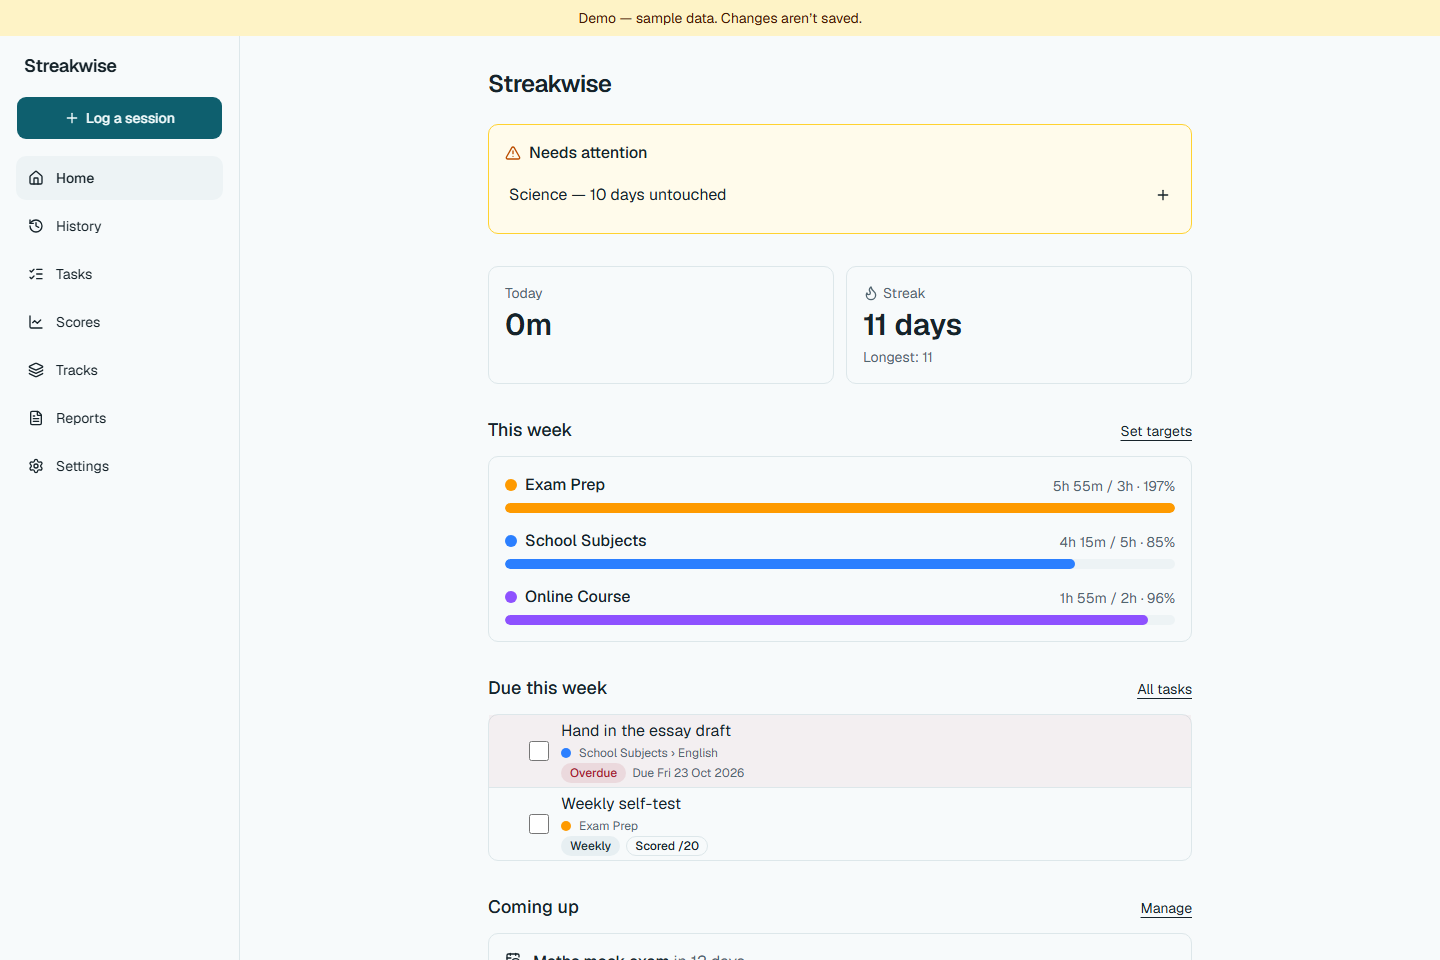
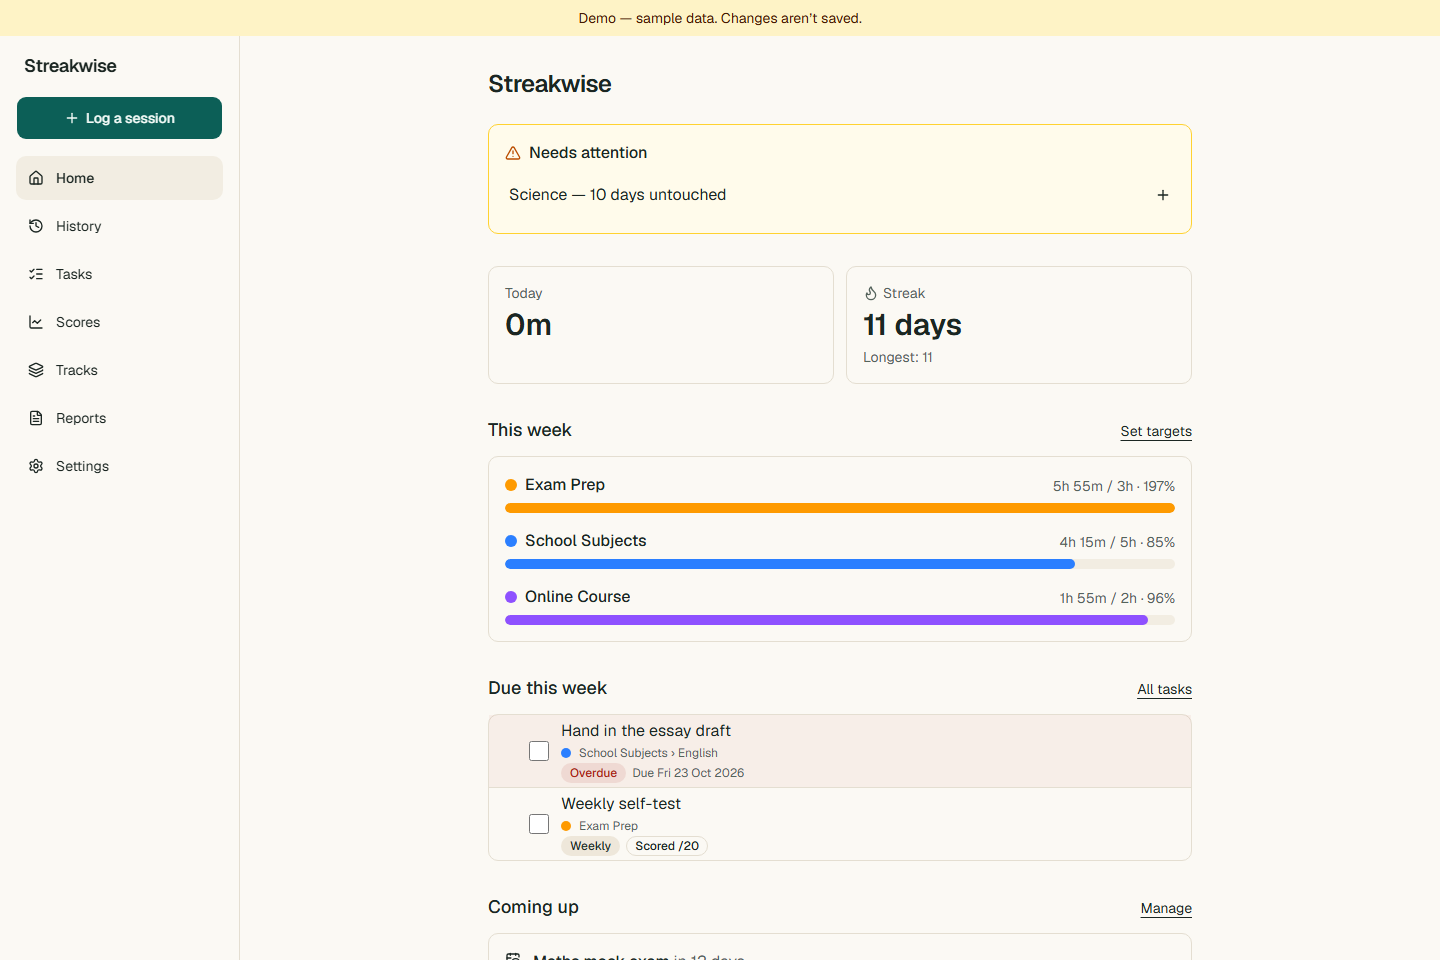
chore: restore the warm palette the owner preferred (#34)

diff --git a/src/index.css b/src/index.css
@@ -60,40 +60,40 @@
   --series-6: #008300;
   --series-7: #4a3aa7;
   --series-8: #e34948;
-  /* The Streakwise palette: cool paper and slate neutrals, deep teal-cyan for actions, pale ice
-     blue as the highlight. Every pair below meets WCAG AA (4.5:1) in both themes. */
-  --background: #f7fafb;
-  --foreground: #16232a;
+  /* The Streakwise palette: warm paper and sand neutrals, deep teal for actions, pale mint as
+     the highlight. Every pair below meets WCAG AA (4.5:1) in both themes. */
+  --background: #fbf9f4;
+  --foreground: #1b2622;
   --card: #ffffff;
-  --card-foreground: #16232a;
+  --card-foreground: #1b2622;
   --popover: #ffffff;
-  --popover-foreground: #16232a;
-  --primary: #0e5f6e;
-  --primary-foreground: #f2fbfc;
-  --secondary: #e7eff2;
-  --secondary-foreground: #1f2f36;
-  --muted: #edf3f5;
-  --muted-foreground: #526570;
-  --accent: #dbedf1;
-  --accent-foreground: #0b404b;
-  --destructive: #a82232;
-  --border: #dde7ea;
-  --input: #d1dde1;
-  --ring: #0e5f6e;
+  --popover-foreground: #1b2622;
+  --primary: #0c5f57;
+  --primary-foreground: #f4fbf8;
+  --secondary: #eee7da;
+  --secondary-foreground: #27332d;
+  --muted: #f2ede2;
+  --muted-foreground: #55635c;
+  --accent: #ddefe9;
+  --accent-foreground: #0d453f;
+  --destructive: #ac2419;
+  --border: #e4ded1;
+  --input: #d9d2c3;
+  --ring: #0c5f57;
   --chart-1: oklch(0.87 0 0);
   --chart-2: oklch(0.556 0 0);
   --chart-3: oklch(0.439 0 0);
   --chart-4: oklch(0.371 0 0);
   --chart-5: oklch(0.269 0 0);
   --radius: 0.625rem;
-  --sidebar: #f2f7f9;
-  --sidebar-foreground: #16232a;
-  --sidebar-primary: #0e5f6e;
-  --sidebar-primary-foreground: #f2fbfc;
-  --sidebar-accent: #e2eef2;
-  --sidebar-accent-foreground: #0b404b;
-  --sidebar-border: #dde7ea;
-  --sidebar-ring: #0e5f6e;
+  --sidebar: #f6f2e8;
+  --sidebar-foreground: #1b2622;
+  --sidebar-primary: #0c5f57;
+  --sidebar-primary-foreground: #f4fbf8;
+  --sidebar-accent: #e4efe9;
+  --sidebar-accent-foreground: #0d453f;
+  --sidebar-border: #e4ded1;
+  --sidebar-ring: #0c5f57;
 }
 
 @media (prefers-color-scheme: dark) {
@@ -106,37 +106,37 @@
     --series-6: #008300;
     --series-7: #9085e9;
     --series-8: #e66767;
-    --background: #10181b;
-    --foreground: #e9f1f4;
-    --card: #172125;
-    --card-foreground: #e9f1f4;
-    --popover: #172125;
-    --popover-foreground: #e9f1f4;
-    --primary: #6fd2d9;
-    --primary-foreground: #062124;
-    --secondary: #223034;
-    --secondary-foreground: #e9f1f4;
-    --muted: #223034;
-    --muted-foreground: #a7bbc2;
-    --accent: #1f353b;
-    --accent-foreground: #d2f0f4;
-    --destructive: #ff8e9b;
+    --background: #111815;
+    --foreground: #eaf1ed;
+    --card: #18201d;
+    --card-foreground: #eaf1ed;
+    --popover: #18201d;
+    --popover-foreground: #eaf1ed;
+    --primary: #6fd3bd;
+    --primary-foreground: #08201c;
+    --secondary: #232e29;
+    --secondary-foreground: #eaf1ed;
+    --muted: #232e29;
+    --muted-foreground: #a9b9b1;
+    --accent: #22332d;
+    --accent-foreground: #d6f2e9;
+    --destructive: #ff8f86;
     --border: oklch(1 0 0 / 12%);
     --input: oklch(1 0 0 / 18%);
-    --ring: #6fd2d9;
+    --ring: #6fd3bd;
     --chart-1: oklch(0.87 0 0);
     --chart-2: oklch(0.556 0 0);
     --chart-3: oklch(0.439 0 0);
     --chart-4: oklch(0.371 0 0);
     --chart-5: oklch(0.269 0 0);
-    --sidebar: #131d21;
-    --sidebar-foreground: #e9f1f4;
-    --sidebar-primary: #6fd2d9;
-    --sidebar-primary-foreground: #062124;
-    --sidebar-accent: #1f353b;
-    --sidebar-accent-foreground: #d2f0f4;
+    --sidebar: #141c19;
+    --sidebar-foreground: #eaf1ed;
+    --sidebar-primary: #6fd3bd;
+    --sidebar-primary-foreground: #08201c;
+    --sidebar-accent: #22332d;
+    --sidebar-accent-foreground: #d6f2e9;
     --sidebar-border: oklch(1 0 0 / 12%);
-    --sidebar-ring: #6fd2d9;
+    --sidebar-ring: #6fd3bd;
   }
 }
 

diff --git a/docs/PROGRESS.md b/docs/PROGRESS.md
@@ -1,24 +1,23 @@
 # Progress
 
-_Last updated: 2026-10-25 by Claude (M8 merged as #32 and the palette cooled in #33: WCAG AA on every
-screen, cool paper/slate with teal-cyan, track management, screenshots and README; next: the owner
-looks at it and decides on R4)_
+_Last updated: 2026-10-25 by Claude (M8 merged as #32; the palette is back to the warm paper/sand
+version after the owner compared it with a cooler one in #33/#34; next: the owner decides on R4)_
 
 ## Milestones
 
-| #             | Status    | PR       | Notes / deferred items                                                                                                                                                                                                                        |
-| ------------- | --------- | -------- | --------------------------------------------------------------------------------------------------------------------------------------------------------------------------------------------------------------------------------------------- |
-| M0 Scaffold   | ✅ done   | #1       |                                                                                                                                                                                                                                               |
-| M1 Foundation | ✅ done   | #7       | Repository covers nodes, settings, seed so far; later milestones add their own methods                                                                                                                                                        |
-| M2 Logging    | ✅ done   | #8       | All MUST + SHOULD done. Deferred: TREE-7 (COULD: drag-and-drop, move to another parent)                                                                                                                                                       |
-| M3 Dashboard  | ✅ done   | #9       | All MUST + SHOULD done. Deferred: NEG-2 (COULD: mute warnings; needs a migration), HEAT-4 (COULD: heatmap per track)                                                                                                                          |
-| M4 MCP        | 🔍 review | #11      | All MUST + SHOULD built (MCP-1–9 M4 tools, SET-4). CI green; checked live on the preview with curl and MCP Inspector                                                                                                                          |
-| M5 Progress   | ✅ done   | #16      | All MUST + SHOULD built. Deferred: TASK-10 (COULD: complete a weekly task for last week)                                                                                                                                                      |
-| M5A Accounts  | ✅ done   | #20      | Merged into `develop` 2026-10-09. Not live yet: R3 is held by the owner                                                                                                                                                                       |
-| M6 Reports    | ✅ done   | #21      | All MUST + SHOULD + COULD (REP-3, SHARE-6) built. No migration. Merged into `develop` 2026-10-09 (owner's OK)                                                                                                                                 |
-| M7 Demo + PWA | ✅ done   | #26      | DEMO-1–5, PWA-1–3 (incl. COULD PWA-3), e2e suite in CI. No migration. Merged into `develop` 2026-10-10 (owner's OK); live in R3a (2026-10-10)                                                                                                 |
-| Cleanup       | ✅ done   | #27      | Migration `0004` (applied 2026-10-10), old-passcode claim removed (D19). Merged into `develop` 2026-10-10                                                                                                                                     |
-| M8 Polish     | ✅ done   | #32, #33 | WCAG AA checks on all 8 screens × 2 themes, final palette, "Manage track", screenshots, README, architecture.md. Merged into `develop` 2026-10-25 (squash `c324a0b`); the owner then asked for a cooler palette (PR #33); R4 is the next step |
+| #             | Status    | PR            | Notes / deferred items                                                                                                                                                                                                                 |
+| ------------- | --------- | ------------- | -------------------------------------------------------------------------------------------------------------------------------------------------------------------------------------------------------------------------------------- |
+| M0 Scaffold   | ✅ done   | #1            |                                                                                                                                                                                                                                        |
+| M1 Foundation | ✅ done   | #7            | Repository covers nodes, settings, seed so far; later milestones add their own methods                                                                                                                                                 |
+| M2 Logging    | ✅ done   | #8            | All MUST + SHOULD done. Deferred: TREE-7 (COULD: drag-and-drop, move to another parent)                                                                                                                                                |
+| M3 Dashboard  | ✅ done   | #9            | All MUST + SHOULD done. Deferred: NEG-2 (COULD: mute warnings; needs a migration), HEAT-4 (COULD: heatmap per track)                                                                                                                   |
+| M4 MCP        | 🔍 review | #11           | All MUST + SHOULD built (MCP-1–9 M4 tools, SET-4). CI green; checked live on the preview with curl and MCP Inspector                                                                                                                   |
+| M5 Progress   | ✅ done   | #16           | All MUST + SHOULD built. Deferred: TASK-10 (COULD: complete a weekly task for last week)                                                                                                                                               |
+| M5A Accounts  | ✅ done   | #20           | Merged into `develop` 2026-10-09. Not live yet: R3 is held by the owner                                                                                                                                                                |
+| M6 Reports    | ✅ done   | #21           | All MUST + SHOULD + COULD (REP-3, SHARE-6) built. No migration. Merged into `develop` 2026-10-09 (owner's OK)                                                                                                                          |
+| M7 Demo + PWA | ✅ done   | #26           | DEMO-1–5, PWA-1–3 (incl. COULD PWA-3), e2e suite in CI. No migration. Merged into `develop` 2026-10-10 (owner's OK); live in R3a (2026-10-10)                                                                                          |
+| Cleanup       | ✅ done   | #27           | Migration `0004` (applied 2026-10-10), old-passcode claim removed (D19). Merged into `develop` 2026-10-10                                                                                                                              |
+| M8 Polish     | ✅ done   | #32, #33, #34 | WCAG AA checks on all 8 screens × 2 themes, final palette (warm paper, kept after a cooler comparison), "Manage track", screenshots, README, architecture.md. Merged into `develop` 2026-10-25 (squash `c324a0b`); R4 is the next step |
 
 ## Releases to production (budget: max 8 per month, ~15 of 300 credits each)
 
@@ -170,8 +169,8 @@ attempt.
 **Next steps (in order):**
 
 1. Done: M8 (#32) merged into `develop` 2026-10-25; CI and e2e green; the `develop` deploy carries it.
-2. Owner: look at the new colours and the "Manage track" button; say if the palette should be
-   warmer/cooler before it goes into v1.0.0.
+2. Palette settled: the owner compared the warm and cool versions and kept the **warm** one
+   (2026-10-25). No further colour work unless asked.
 3. Owner: finish the remaining preview-checklist items (sign-up + confirmation with a `+test`
    address, MCP link, share link).
 4. Owner: yes/no to R4. Then merge `develop` → `main`, deploy from `main`, tag `v1.0.0`, make a new
@@ -182,19 +181,17 @@ decision).
 
 - **Accessibility:** `e2e/a11y.spec.ts` runs axe-core with the WCAG 2.1 A/AA rules over all eight
   screens, in light and dark, on the phone and desktop projects (32 checks). Tinted "overdue" rows
-  failed at first: light `--muted-foreground` is now `#526570` and `--destructive` `#a82232`, which
-  clear 4.5:1 on cards, muted backgrounds, and the 5–10% destructive tints. The cooler teal also
-  pushed primary **hover** tints under 4.5:1 (the pointer rests on the Log link after navigation, so
-  axe saw it): primary buttons and badges now hover at `/90`, and the dark destructive hover is
-  `/25`.
-- **Palette (owner asked for a final colour scheme, then asked for it cooler):** cool paper and
-  slate neutrals, deep teal-cyan (`#0e5f6e`) for actions, pale ice blue for highlights, a cool brick
-  red for destructive actions; dark mode is the same roles on a near-black blue-green background
-  with aqua (`#6fd2d9`) as primary. Track and chart palettes are unchanged. Every text/background
-  pair measures 5.4:1–15.7:1.
-- **Cooler follow-up (PR #33):** the owner asked for the first palette to be cooler, so the tokens
-  moved from warm paper/mint to cool paper/slate with teal-cyan and ice blue; the hover tints were
-  fixed in the same PR (see the accessibility bullet), and the screenshots were regenerated.
+  failed at first: light `--muted-foreground` is now `#55635c` and `--destructive` `#ac2419`, which
+  clear 4.5:1 on cards, muted backgrounds, and the 5–10% destructive tints. Primary **hover** tints
+  were also raised to `/90` (5.7:1) and the dark destructive hover to `/25`, because the pointer
+  rests on the Log link after navigation and axe saw that state.
+- **Palette (owner asked for a final colour scheme):** warm paper and sand neutrals, deep teal
+  (`#0c5f57`) for actions, pale mint for highlights, brick red for destructive actions; dark mode is
+  the same roles on a near-black green background with mint (`#6fd3bd`) as primary. Track and chart
+  palettes are unchanged. Every text/background pair measures 5.4:1–15.7:1.
+- **Cooler palette tried and reverted (PR #33 → PR #34):** a cool paper/slate version with teal-cyan
+  was built, checked, screenshotted and merged, then the owner compared both and asked for the warm
+  one back. The hover-tint fix from that PR stayed, and the screenshots were regenerated again.
 - **Delete/manage a track (owner asked for it):** a "Manage track" button on a track's page opens the
   existing node dialog, so rename, recolour, add a child, archive, restore, and delete (TREE-1–3,
   TREE-5) work without going through Settings → Structure. A successful delete returns to Tracks;
@@ -471,8 +468,8 @@ With D15, `SUPABASE_URL` / `SUPABASE_SECRET_KEY` are the same in every Netlify c
 
 ## Open questions for the owner
 
-- Is the cooler palette right for v1.0.0? Cool paper, slate, teal-cyan, and ice blue — easy to
-  nudge warmer or cooler again before R4.
+- Is the warm palette right for v1.0.0? It came back after the cooler comparison — easy to nudge
+  before R4, but it is now the warm paper/sand/teal/mint version.
 - Say yes/no to R4 once the checklist passes (merge `develop` → `main`, then deploy production from
   `main`).
 - Should the Netlify entries stay in Supabase's URL configuration until R4, or be removed with the
@@ -480,11 +477,11 @@ With D15, `SUPABASE_URL` / `SUPABASE_SECRET_KEY` are the same in every Netlify c
 
 ## Decisions made during the build
 
-- M8: the final palette is cool paper and slate neutrals with deep teal-cyan for actions, pale ice
-  blue for highlights, and a cool brick red for destructive actions; dark mode swaps the same roles
-  on a near-black blue-green background (the owner asked for it cooler than the first version).
-  Track and score-chart colours stay separate (`--series-*`), so a theme change never re-colours
-  someone's data.
+- M8: the final palette is warm paper and sand neutrals with deep teal for actions, pale mint for
+  highlights, and a warm brick red for destructive actions; dark mode swaps the same roles on a
+  near-black green background. A cooler version was built and compared; the owner chose to keep the
+  warm one. Track and score-chart colours stay separate (`--series-*`), so a theme change never
+  re-colours someone's data.
 - M8: contrast is enforced by axe-core in the e2e suite (all 8 screens × light/dark × phone/desktop)
   rather than by eye or by unit tests, because it measures the real computed colours.
 - M8: a track is managed from its own page ("Manage track" → the existing `NodeDialog`), so the

diff --git a/docs/SPEC.md b/docs/SPEC.md
@@ -684,7 +684,7 @@ sharing, demo, polish) and can resume at any time from docs/PROGRESS.md.
 | D18 | **General sample tracks (owner's request, 2026-10-09):** the seed for new accounts and the demo use Exam Prep (Flashcards, Practice), School Subjects (Maths, English), and Online Course, with a scored "Weekly self-test". The owner's own track names appear nowhere in the code, docs, or tests. Existing accounts keep their data. | The app is public; the starter tracks should suit any student, multitasker, or high achiever, and not reveal the owner's studies |
 | D19 | **Single-user leftovers removed (2026-10-10, as planned in D17):** after the owner claimed the old data, migration `0004` makes `user_id` required on every data table and drops the old `settings` table, the old RPCs, and the claim functions. The code drops the old-passcode form, `/api/auth/passcode`, the `sw_claim` cookie, and `APP_PASSCODE`; `MCP_SECRET` was already unused since D17. | Nothing is left to claim; fewer moving parts and no secret that no longer does anything |
 | D20 | **Hosting moves from Netlify to Vercel's free Hobby plan (owner's decision, 2026-10-10).** R3a was the last Netlify release. Vercel charges nothing per deploy (about 100 deployments a day on Hobby, 1M function requests a month) and fits the app's non-commercial use; limits: runtime logs kept 1 hour, non-commercial personal use only. The server moves to one deployed function (`api/server.ts`) that dispatches `/api/*`, `/auth/*`, `/mcp/*`, `/.well-known/*` to the unchanged handlers. Releases still need the owner's OK (OPS-4); R4 (v1.0.0) is the first Vercel release. | No deployment budget; Netlify credits were nearly exhausted, and Vercel's free limits are far above this app's traffic |
-| D21 | **Final colours and track management (owner's requests, 2026-10-25).** The v1.0.0 theme is cool paper and slate neutrals, deep teal-cyan for actions, pale ice blue for highlights, and a cool brick red for destructive actions, with the same roles inverted in dark mode (the theme still follows the system setting); the owner asked for the first version to be cooler. Track and score-chart colours keep their own validated palette. A track's page has a **Manage track** button that opens the same node dialog as Settings → Structure, so rename, recolour, add a child, archive, restore, and delete live where the track is (TREE-1–3, TREE-5). | The owner asked for a nicer, cohesive colour scheme for the final version, and for a way to delete a track without digging through Settings |
+| D21 | **Final colours and track management (owner's requests, 2026-10-25).** The v1.0.0 theme is warm paper and sand neutrals, deep teal for actions, pale mint for highlights, and a warm brick red for destructive actions, with the same roles inverted in dark mode (the theme still follows the system setting). A cooler paper/slate version was also built; the owner compared both and kept this warm one. Track and score-chart colours keep their own validated palette. A track's page has a **Manage track** button that opens the same node dialog as Settings → Structure, so rename, recolour, add a child, archive, restore, and delete live where the track is (TREE-1–3, TREE-5). | The owner asked for a nicer, cohesive colour scheme for the final version, and for a way to delete a track without digging through Settings |
 
 ## B16. Out of scope
 

diff --git a/docs/architecture.md b/docs/architecture.md
@@ -61,9 +61,9 @@ seed (`services/seed.ts`); component tests use that seed too (`fakeApi`).
 ## Theme and accessibility (M8)
 
 - **One set of design tokens.** Colours are CSS custom properties in `src/index.css`
-  (Tailwind v4 `@theme inline`), so every shadcn/ui component picks them up. The palette is cool
-  paper and slate neutrals, deep teal-cyan for actions, pale ice blue for highlights, and a cool
-  brick red for destructive actions. Dark mode swaps the same token names inside
+  (Tailwind v4 `@theme inline`), so every shadcn/ui component picks them up. The palette is warm
+  paper and sand neutrals, deep teal for actions, pale mint for highlights, and a warm brick red for
+  destructive actions. Dark mode swaps the same token names inside
   `@media (prefers-color-scheme: dark)`, following the system setting (no manual switch, SPEC §B11);
   printing overrides them again for black text on white.
 - **Charts keep their own colours.** The eight `--series-*` values are a separate categorical
